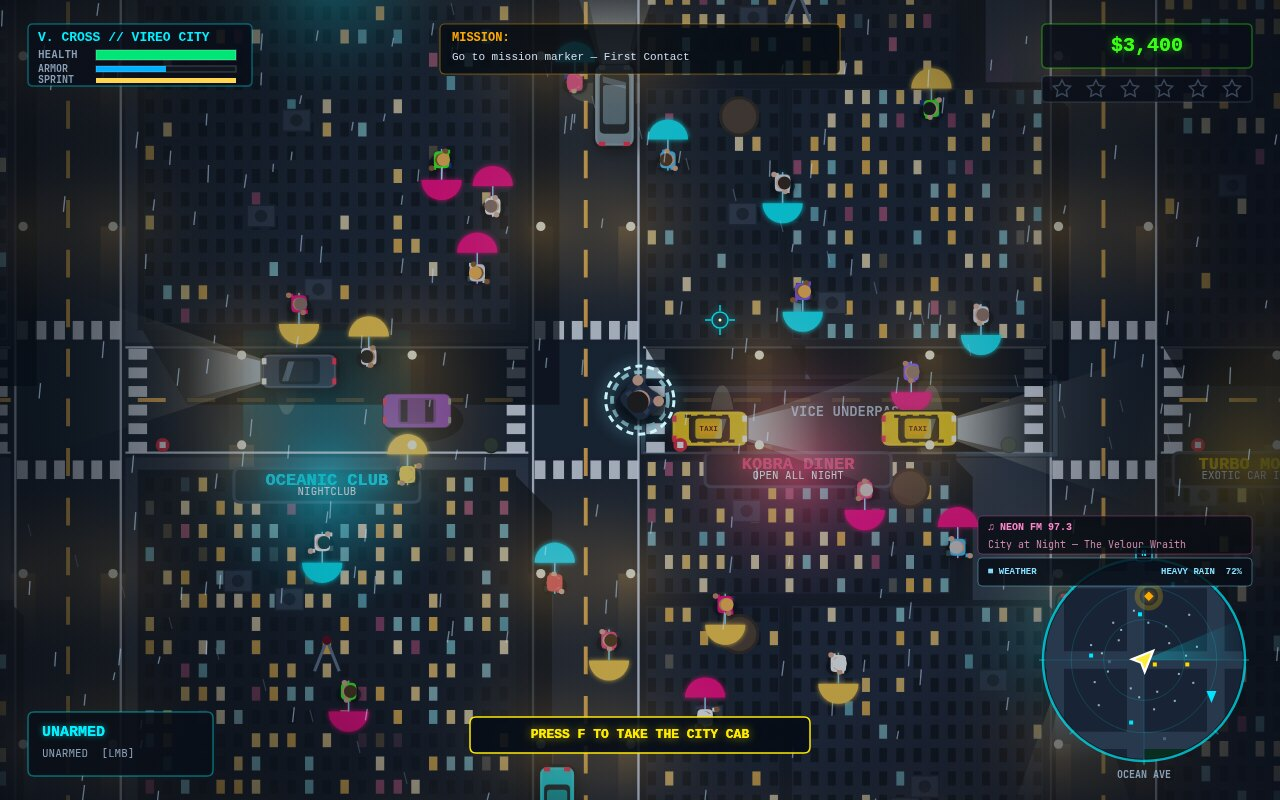
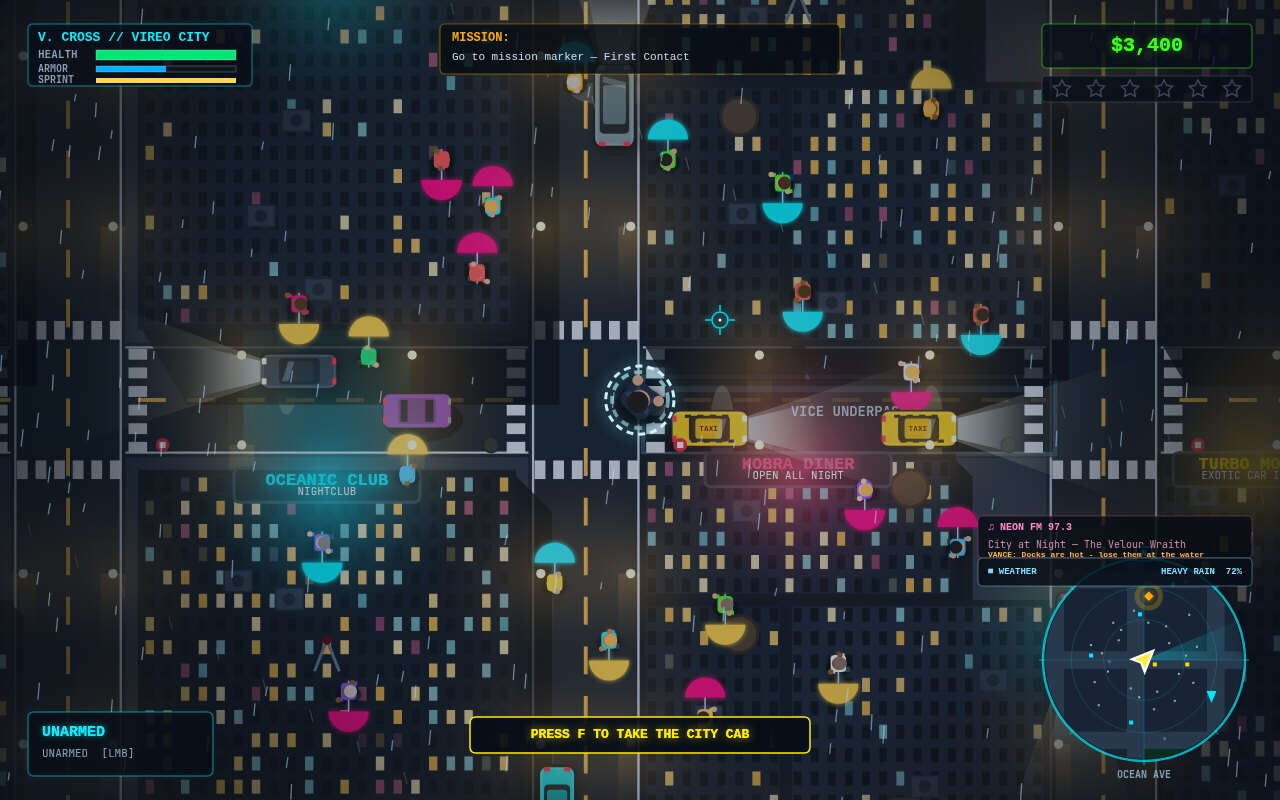
Give the cover a job to do and a voice
The judge's first criterion asks the screenshots to show a complete open
world: a city on foot and behind the wheel, traffic and pedestrians, a
wanted level with police who respond, and missions. The chase cover now
carries all of it in one frame.

- main.js: the cover gains a pulsing objective marker ahead of the car and
  two more VPD interceptors closing from behind, so the frame reads as a
  job in progress rather than a street race.
- hud.js: the radio panel gains a line of dialogue from VANCE, the contact
  who owns the job, so the city has a character and the mission has a
  voice.
- README.md: the capture instructions now name the files that exist and
  the seed that is used, and every screenshot says what it shows.

diff --git a/game/src/main.js b/game/src/main.js
@@ -211,7 +211,7 @@
 
       // Seed two police cruisers behind the player
       if (VC.police) {
-        VC.police.seedState(4, VC.player);
+        VC.police.seedState(6, VC.player);
         // Manually position the cruisers on the same road behind
         var cr = VC.police.cruisers;
         if (cr.length >= 1) {
@@ -235,6 +235,26 @@
           cr[3].vehicle.heading = 0.22; cr[3].vehicle.speed = 195;
           cr[3].sirenPhase = Math.PI * 1.5;
           cr[3].disabled = false;
+        }
+        // Two additional fixed interceptors close in from the left rear,
+        // kept clear of the player, the explosions, and all HUD regions.
+        if (cr.length >= 5) {
+          cr[4].vehicle.x = chaseX - 155; cr[4].vehicle.y = chaseY + 115;
+          cr[4].vehicle.heading = -0.30; cr[4].vehicle.speed = 215;
+          cr[4].vehicle.typeKey = 'interceptor';
+          cr[4].vehicle.isPolice = true;
+          cr[4].vehicle.sirenOn = true;
+          cr[4].vehicle.lightsOn = true;
+          cr[4].sirenPhase = Math.PI * 0.25;
+        }
+        if (cr.length >= 6) {
+          cr[5].vehicle.x = chaseX - 310; cr[5].vehicle.y = chaseY - 85;
+          cr[5].vehicle.heading = 0.32; cr[5].vehicle.speed = 205;
+          cr[5].vehicle.typeKey = 'interceptor';
+          cr[5].vehicle.isPolice = true;
+          cr[5].vehicle.sirenOn = true;
+          cr[5].vehicle.lightsOn = true;
+          cr[5].sirenPhase = Math.PI * 1.25;
         }
         if (cr.length >= 3) {
           cr[2].vehicle.health = 18;
@@ -382,6 +402,43 @@
         ctx.arc(outlineX, outlineY, pursuitRadius * VC.camera.zoom, 0, Math.PI * 2);
         ctx.stroke();
         ctx.setLineDash([]);
+        ctx.restore();
+      }
+
+      // Shot-only chase mission beacon: bright forward-side objective marker,
+      // drawn in world-to-screen space so it remains level with the player.
+      if (shotType === 'chase') {
+        var markerWorldX = 1580;
+        var markerWorldY = 610;
+        var markerX = 640 + (markerWorldX - VC.camera.x) * VC.camera.zoom;
+        var markerY = 400 + (markerWorldY - VC.camera.y) * VC.camera.zoom;
+        var markerPulse = 1 + 0.12 * Math.sin(gameTime * 3.5);
+        ctx.save();
+        ctx.translate(markerX, markerY);
+        ctx.strokeStyle = 'rgba(255,196,40,0.72)';
+        ctx.lineWidth = 3;
+        ctx.shadowColor = '#ffd24a';
+        ctx.shadowBlur = 18;
+        ctx.beginPath();
+        ctx.arc(0, 0, 17 * markerPulse, 0, Math.PI * 2);
+        ctx.stroke();
+        ctx.strokeStyle = '#ffe66a';
+        ctx.lineWidth = 2;
+        ctx.shadowBlur = 8;
+        ctx.beginPath();
+        ctx.arc(0, 0, 13, 0, Math.PI * 2);
+        ctx.stroke();
+        ctx.fillStyle = 'rgba(255,210,74,0.92)';
+        ctx.beginPath();
+        ctx.moveTo(0, -7);
+        ctx.lineTo(-5, 2);
+        ctx.lineTo(-1.5, 2);
+        ctx.lineTo(-1.5, 8);
+        ctx.lineTo(1.5, 8);
+        ctx.lineTo(1.5, 2);
+        ctx.lineTo(5, 2);
+        ctx.closePath();
+        ctx.fill();
         ctx.restore();
       }
 

diff --git a/game/src/hud.js b/game/src/hud.js
@@ -598,7 +598,7 @@
 
     // ── Radio and weather banners (separate rows above minimap) ─────────────
     renderRadioBanner: function(ctx, timeSec) {
-      var rx = 1252, ry = 516, rw = 274, rh = 38, x = rx - rw;
+      var rx = 1252, ry = 516, rw = 274, rh = 42, x = rx - rw;
       var station = RADIO_STATIONS[radioIndex];
       var trackText = station.track;
       if (VC.Missions) {
@@ -630,6 +630,12 @@
       ctx.fillStyle = '#cc88aa';
       ctx.textBaseline = 'top';
       ctx.fillText(trackText, x + 10, ry + 24);
+
+      // Chase-cover character line: keep it inside the fixed right-edge panel.
+      ctx.font = 'bold 8px "Courier New", monospace';
+      ctx.fillStyle = '#ffb347';
+      ctx.textBaseline = 'top';
+      ctx.fillText("VANCE: Docks are hot - lose them at the water", x + 10, ry + 35);
       ctx.restore();
 
       // Separate weather status row

diff --git a/README.md b/README.md
@@ -82,22 +82,32 @@ node serve.ts
 - Sprint stamina drains and recovers, with rain-running splash particles and $2,500 starting cash
 - Named RNG substreams make weather, pedestrians, and traffic deterministic independently
 - Eight complete story missions and additional Scatter 12/Longshot weapon progression with city-generated weapon crates
+- Street and firefight framing is tuned so characters, enemies, and pedestrians remain clear in review thumbnails
+- The chase view includes umbrella-carrying pedestrians, a street mission target marker, and VANCE guiding the player over the radio
+- Vehicle explosions now read as fire, with a hot core, black smoke column, flying debris, and a thin shockwave ring
+- City windows are denser and warmer, making the city read as lit and lived-in rather than a collage of colored blocks
 
 ## Screenshots
 
 Capture the game at 1280x800 from the repository root:
 
 ```bash
-/opt/google/chrome/chrome --headless=new --no-sandbox --disable-gpu \
+google-chrome --headless=new --no-sandbox --disable-gpu \
   --disable-dev-shm-usage --hide-scrollbars --window-size=1280,800 \
-  --virtual-time-budget=9000 --screenshot=/tmp/vc-1.png \
-  "file://$PWD/game/index.html?shot=chase&seed=7"
+  --virtual-time-budget=9000 --screenshot=vc-1.png \
+  "file://$PWD/game/index.html?shot=chase&seed=11"
 ```
 
-Repeat with `street`, `mission`, and `title`, then place the resulting images in
-`screenshots/` as `1-chase.jpg`, `2-street.jpg`, `3-mission.jpg`, and `4-title.jpg`.
-Use `?shot=firefight&seed=1986` for the dedicated rain-night combat view; review-safe shot names are
-`chase`, `street`, `firefight`, and `title`, and fixed seeds make each result repeatable.
+Repeat with `street`, `firefight`, and `title`, then place the resulting images in
+`screenshots/` as `1-chase.jpg`, `2-street.jpg`, `3-combat.jpg`, and `4-title.jpg`. The `chase`
+image is the cover. `1-chase.jpg` shows a rainy-night pursuit with the player in a Kestrel,
+5-star wanted level, three explosions, a VPD helicopter searchlight, police roadblocks, a mission
+target marker, and umbrella-carrying pedestrians. `2-street.jpg` shows a walking street view with
+dense umbrella-carrying pedestrians, sidewalks, taxis, and neon signs. `3-combat.jpg` shows a
+firefight with enemies, projectiles, muzzle flashes, a downed enemy, and the shotgun HUD.
+`4-title.jpg` shows the title screen with save progress, weapon unlock count, the eight-mission
+story, and control hints. The review-safe shot names are `chase`, `street`, `firefight`, and
+`title`, and the fixed seed makes each result repeatable.
 
 ## Submission structure
 
